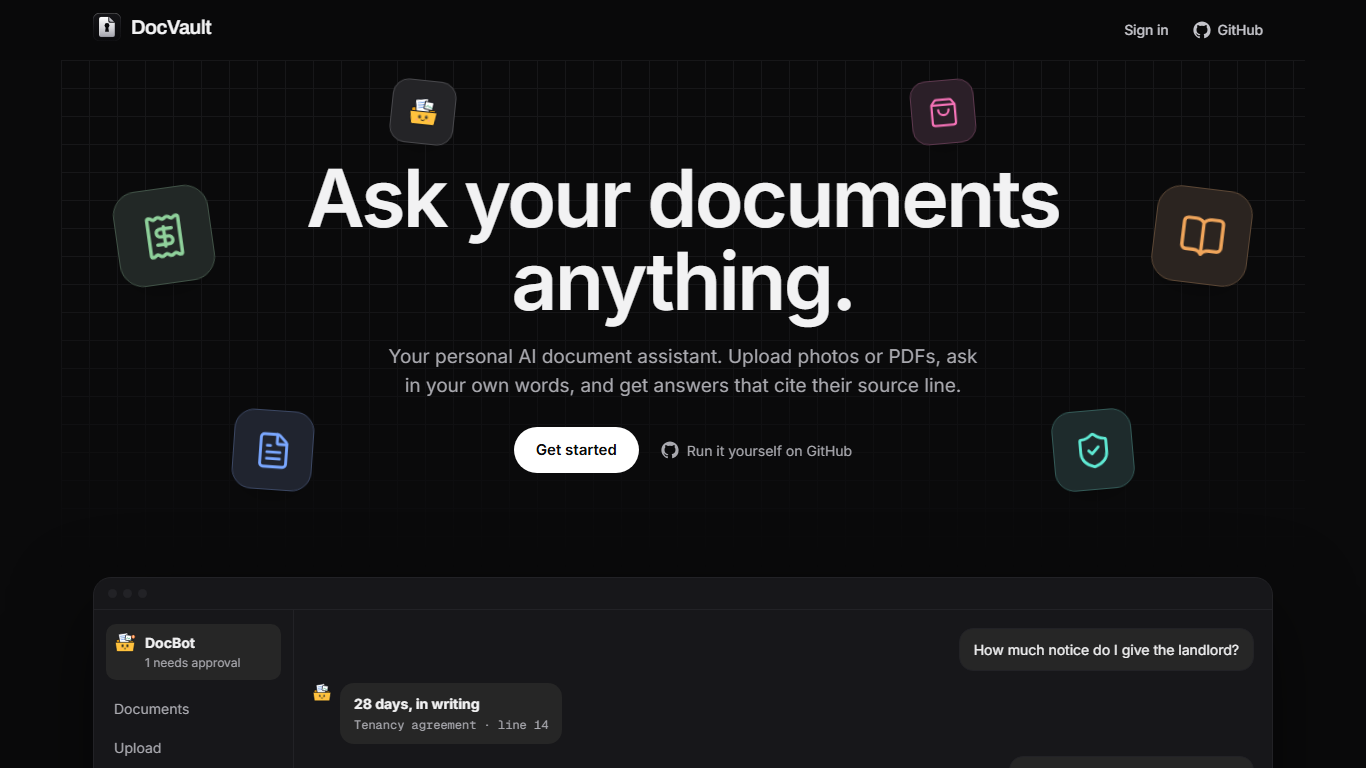
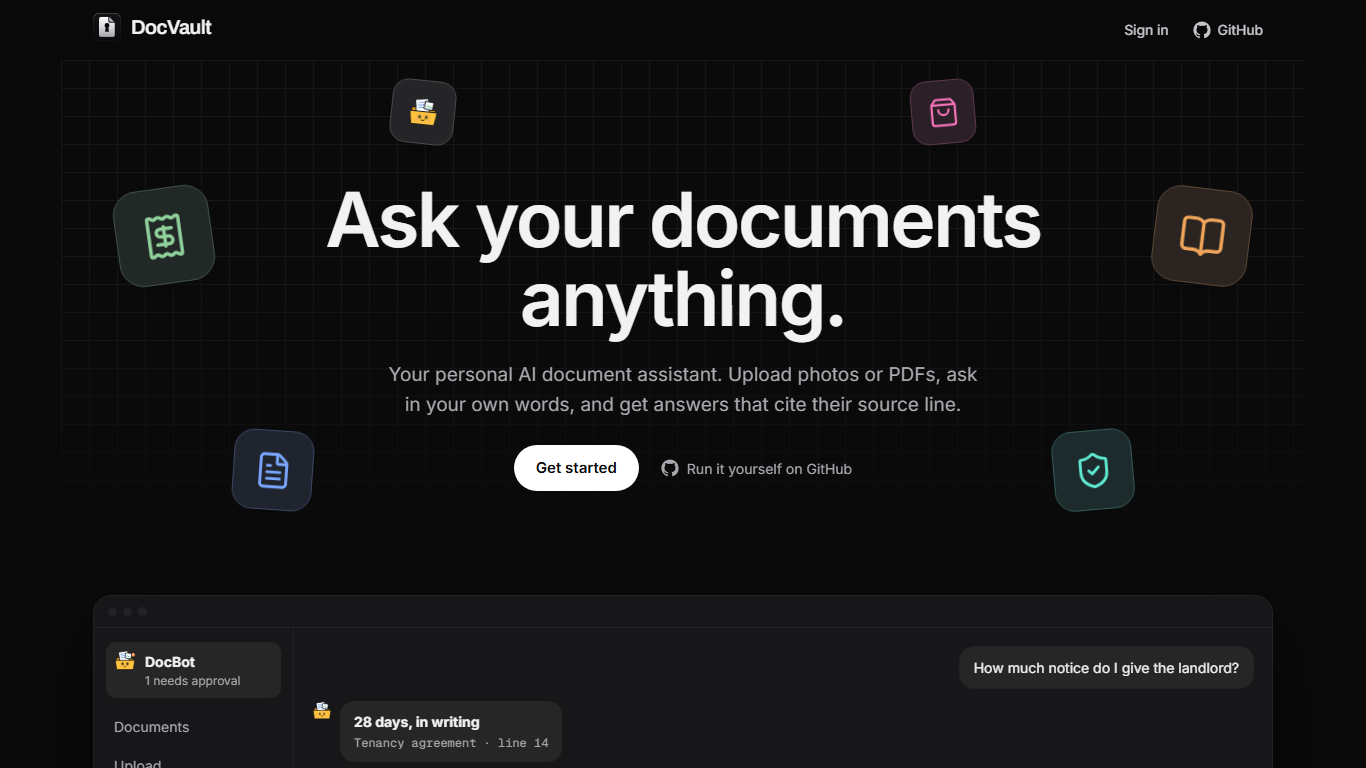
Place the hero headline 120 px below the header, as on t3.codes

diff --git a/frontend/src/components/landing/FloatingTiles.tsx b/frontend/src/components/landing/FloatingTiles.tsx
@@ -5,7 +5,7 @@ import { useReducedMotion } from '@/lib/useReducedMotion'
 
 /**
  * Three mirrored pairs, laid out as on t3.codes: x from the hero's centre, y from its top, s the tile size. The lower
- * pair sits at 350 px (t3: 440 px) so it stays beside the buttons of this shorter hero.
+ * pair sits at 370 px (t3: 440 px) so it stays beside the buttons of this shorter hero.
  * depth scales how far a tile follows the cursor; fx/fy is where it flies in from; d its entrance delay.
  */
 type Tile = { name: string; icon?: LucideIcon; color?: string; x: string; y: string; s: number; rot: number; depth: number; d: number; fx: number; fy: number }
@@ -14,8 +14,8 @@ const tiles: Tile[] = [
   { name: 'shopping', icon: ShoppingBag, color: '#F472B6', x: 'min(300px, 19vw)', y: '20px', s: 64, rot: -5, depth: 0.6, d: 0.58, fx: 40, fy: -80 },
   { name: 'receipt', icon: Receipt, color: '#8FD19B', x: 'max(-560px, -38vw)', y: '128px', s: 96, rot: -8, depth: 1.2, d: 0.38, fx: -160, fy: -40 },
   { name: 'manual', icon: BookOpen, color: '#F0A55B', x: 'min(560px, 38vw)', y: '128px', s: 96, rot: 7, depth: 1.2, d: 0.46, fx: 160, fy: -40 },
-  { name: 'file', icon: FileText, color: '#7AA7FF', x: 'max(-440px, -30vw)', y: '350px', s: 80, rot: 4, depth: 0.9, d: 0.54, fx: -120, fy: 80 },
-  { name: 'warranty', icon: ShieldCheck, color: '#5EEAD4', x: 'min(440px, 30vw)', y: '350px', s: 80, rot: -5, depth: 0.9, d: 0.7, fx: 120, fy: 80 },
+  { name: 'file', icon: FileText, color: '#7AA7FF', x: 'max(-440px, -30vw)', y: '370px', s: 80, rot: 4, depth: 0.9, d: 0.54, fx: -120, fy: 80 },
+  { name: 'warranty', icon: ShieldCheck, color: '#5EEAD4', x: 'min(440px, 30vw)', y: '370px', s: 80, rot: -5, depth: 0.9, d: 0.7, fx: 120, fy: 80 },
 ]
 
 /** Furthest the tiles shift, in pixels, when the cursor reaches an edge of the hero. */

diff --git a/frontend/src/pages/landing.css b/frontend/src/pages/landing.css
@@ -108,11 +108,11 @@
 }
 .landing-hero h1 {
   font-weight: 600;
-  font-size: clamp(2.6rem, 6.5vw, 5rem);
+  font-size: clamp(2.6rem, 6.5vw, 4.75rem);
   letter-spacing: -0.03em;
   line-height: 1.04;
   max-width: 15ch;
-  margin: 0 auto 20px;
+  margin: 0 auto 22px;
   text-wrap: balance;
 }
 .hero-lead {
@@ -409,6 +409,10 @@
 /* Sections */
 .docbot-site main > section {
   padding-block: clamp(48px, 7vw, 96px);
+}
+/* The headline starts 120 px below the header on desktop, as on t3.codes (72 px padding + 48 px margin). */
+.docbot-site main > .landing-hero {
+  padding-top: clamp(56px, 8.8vw, 120px);
 }
 .docbot-site h2 {
   font-weight: 600;

diff --git a/frontend/src/pages/Landing.test.tsx b/frontend/src/pages/Landing.test.tsx
@@ -96,8 +96,8 @@ it('spreads the tiles in three mirrored pairs, as on t3.codes', () => {
     ['min(300px, 19vw)', '20px', '64px'],
     ['max(-560px, -38vw)', '128px', '96px'],
     ['min(560px, 38vw)', '128px', '96px'],
-    ['max(-440px, -30vw)', '350px', '80px'],
-    ['min(440px, 30vw)', '350px', '80px'],
+    ['max(-440px, -30vw)', '370px', '80px'],
+    ['min(440px, 30vw)', '370px', '80px'],
   ])
 })
 

diff --git a/specs/Repo_Current_State.md b/specs/Repo_Current_State.md
@@ -55,7 +55,7 @@ The assessed demo uses the existing hardware and local stack with **€0 planned
 | DocBot redesign PR 1 (issue #35), 21 November 2026, branch `feature/docbot-redesign`, frontend only | Codex's draft PR 37 (`210c7dd`) was merged on top of the plan commit with five conflicts resolved per the plan (`AppNav.test.tsx`, `AskAI.test.tsx`, `AskAI.tsx`, `Dashboard.tsx`, `lib/assistant.ts`), then: Pip renamed to DocBot, the folder mascot, the Vault-Page Monogram, public pages always dark, the t3-structure landing page. Run: type check, lint, 424 Vitest tests and the production build passed after a clean `npm ci`; `e2e/landing.spec.ts` (5 scenarios, including axe at 1366 and 390 px and the 1366 x 768 first-screen check) passed against the Vite dev server with `--retries=0`; screenshots of `/` and `/login` at 1366 x 768 and 390 x 844 are in `evaluation/docbot-redesign/`. Contrast on the dark palette (computed, not measured in a browser): text 17.7:1, muted text 8.5:1 on the page and 7.7:1 on cards, the orange status text 9.7:1, the white button 19.8:1. Not run: the signed-in Playwright suite and the `/app` screenshots (they need a disposable Compose stack, which the owner declined to start), the backend (untouched), the mobile checks. Not verified in a browser: the home assertions that moved to the `DocBot` h1, the light and dark `/app` screenshots. |
 | Landing polish and logo (issue #35), 21 November 2026, branch `feature/landing-polish`, frontend only | The landing header sticks to the top as on t3.codes: a constant 75% tint of the page colour, no blur, and a bottom border that fades in after 16 px of scrolling (opaque under reduced transparency, no fade under reduced motion). The header holds the wordmark, Sign in and GitHub; the hero's only primary button and the closing button read "Get started". The electricity-bill approval card appears once, in "One button to approve", above its highlighted source line (line 17); the hero shows lease and warranty cited answers and Meet DocBot shows the bill answer and a drafted reminder waiting for approval. "Read the setup" is underlined with an arrow. The logo is a vector mark (obsidian gradient tile with a metallic top rim, a white-to-silver folded page with a dark keyhole) in `favicon.svg`, a PNG-based `favicon.ico`, a 180 px `apple-touch-icon.png`, `VaultMonogram` and the README. Run: type check, lint, 432 Vitest tests and the production build passed; `e2e/landing.spec.ts` (6 scenarios, including axe at 1366 and 390 px and the sticky-header check) passed against the Vite dev server. Checked in a browser: the header at desktop, 390 px and 320 px, no sideways scroll, and the icon on white and dark tab colours from 16 to 128 px. Not run: the signed-in Playwright suite, the backend (untouched), the mobile checks. |
 | Landing header hover, tiles and font (issue #35), 21 November 2026, branch `feature/landing-hover-parallax`, frontend only | Matched to t3.codes at the owner's request: the header's Sign in and GitHub are text links in `#C4C4CA` (about 5.3:1 over a white button under the tinted bar) that brighten to `--foreground` on hover or focus, with no pill; GitHub links in the header, the hero and the footer open in a new tab and say so to screen readers. The six hero tiles are coloured and sit in t3's three mirrored pairs (64, 96 and 80 px), follow a fine pointer by up to 18 x 14 px times a per-tile depth with a 700 ms ease, and fly in on load with a 24° spin; the headline lines, lead, buttons and picture rise in turn (0 to 520 ms). Motion runs only under `html.motion-ok` without reduced motion; only a mouse moves the tiles (touch, pen and reduced motion keep them still). t3's exact spread needs a wide hero, so up to 1100 px only the large outer pair shows and below 900 px no tiles show (the review measured the small pair touching the headline and the lower pair falling behind the picture at 900–1100 px). The landing page uses the t3.codes font stack (SF Pro on Apple devices, Inter elsewhere) at weight 600 instead of Geist 800. The footer shows the logo and "© 2026 DocVault · by Hayden · final-year project". Run: type check, lint, 443 Vitest tests and the production build passed; `e2e/landing.spec.ts` (8 scenarios, including axe at 1366 and 390 px, a real-mouse parallax and hover check, the tile breakpoints at 1000 and 850 px and computed reduced-motion styles) passed against the Vite dev server. Checked in a browser at 1366 x 768 and 1280 x 800. Not run: the signed-in Playwright suite, the backend (untouched), the mobile checks. |
-| Landing positioning (issue #35), 21 November 2026, branch `feature/landing-positioning`, frontend only | Implements `specs/plans/2026-11-21-landing-positioning.md` with D1, D3, D4 and D5 as recommended and, at the owner's later request, no eyebrow (D2 withdrawn; the lower pair of hero tiles moves from y 440 to 350 px so it stays beside the buttons of the shorter hero): the `h1` "Ask your documents anything." and a two-line lead (at 1366 px, max width 680 px) "Your personal AI document assistant. Upload photos or PDFs, ask in your own words, and get answers that cite their source line."; Meet DocBot shows a dishwasher-manual answer (line 22) and the honest miss "I couldn't find this in your documents."; the questions, the document cards and the stats no longer lead with bills (stat "Line 14"); the browser title and manifest name read "personal AI document assistant". Run: type check, lint, 442 Vitest tests and the production build passed; `e2e/landing.spec.ts` (7 scenarios, including axe at 1366 and 390 px and the 1366 x 768 first-screen check, which now also asserts the two-line lead) passed against the Vite dev server. Screenshots: `evaluation/docbot-redesign/landing-positioning-1366.png` and `-390.png`. Not run: the signed-in Playwright suite, the backend (untouched), the mobile checks. |
+| Landing positioning (issue #35), 21 November 2026, branch `feature/landing-positioning`, frontend only | Implements `specs/plans/2026-11-21-landing-positioning.md` with D1, D3, D4 and D5 as recommended and, at the owner's later request, no eyebrow (D2 withdrawn; the lower pair of hero tiles moves from y 440 to 370 px so it stays beside the buttons of the shorter hero; the headline starts 120 px below the header at 76 px with a 22 px gap to the lead, as on t3.codes): the `h1` "Ask your documents anything." and a two-line lead (at 1366 px, max width 680 px) "Your personal AI document assistant. Upload photos or PDFs, ask in your own words, and get answers that cite their source line."; Meet DocBot shows a dishwasher-manual answer (line 22) and the honest miss "I couldn't find this in your documents."; the questions, the document cards and the stats no longer lead with bills (stat "Line 14"); the browser title and manifest name read "personal AI document assistant". Run: type check, lint, 442 Vitest tests and the production build passed; `e2e/landing.spec.ts` (7 scenarios, including axe at 1366 and 390 px and the 1366 x 768 first-screen check, which now also asserts the two-line lead) passed against the Vite dev server. Screenshots: `evaluation/docbot-redesign/landing-positioning-1366.png` and `-390.png`. Not run: the signed-in Playwright suite, the backend (untouched), the mobile checks. |
 
 ## Remaining evidence and limits
 
